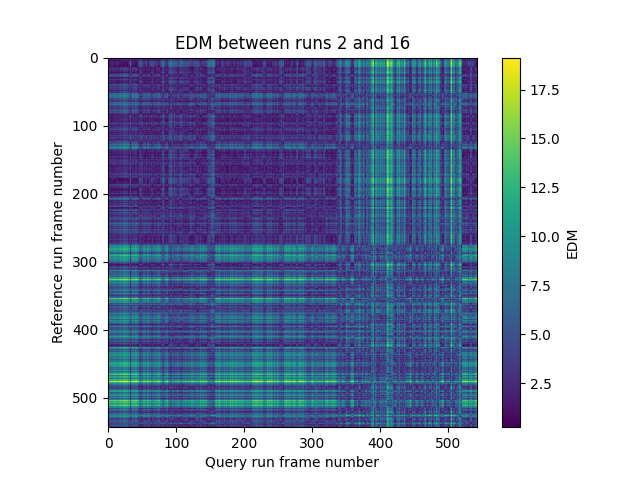
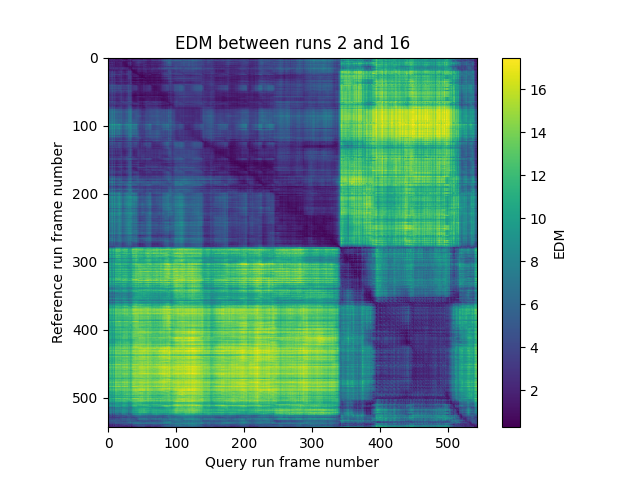
Still need to fix dbscan

diff --git a/visual_place_recognition/clustering/get_cluster.py b/visual_place_recognition/clustering/get_cluster.py
@@ -17,6 +17,7 @@ import pandas as pd
 import matplotlib.pyplot as plt
 import path_processing
 from scipy.stats import wasserstein_distance
+from scipy.stats import entropy
 import sys
 sys.path.append("/home/lamlam/code/visual_place_recognition")
 import evaluation_tool
@@ -47,17 +48,20 @@ if __name__ == '__main__':
     #images_path = images_path + images_path_dark
     for frame_path in images_path:
         #List of descriptors of size {996}
-        descriptors = learned_feature_detector.run(path_processing.pre_process_image(frame_path),config["score_threshold_to_be_chosen"])
+        descriptors = learned_feature_detector.run_window_normalize(path_processing.pre_process_image(frame_path),config["score_threshold_to_be_chosen"])
         descriptors_list = descriptors_list + descriptors #list of list
 
     #Do clustering -> list_descriptors is a list of around 100 tensors of size {992}
-    list_descriptors = clustering.cluster_dbscan(descriptors_list, config)
-
-    print("K-means")
-    nparray_kmeans = clustering.cluster_kmeans(descriptors_list,config)
-    
-    #Convert this to list of tensors to tensors
-    list_descriptors = torch.stack(list_descriptors)
+    if(config["clustering_method"] == "dbscan"):
+        print("Using dbscan")
+        list_descriptors = clustering.cluster_dbscan(descriptors_list, config)
+        #Convert this to list of tensors to tensors
+        list_descriptors = torch.stack(list_descriptors)
+    else:
+        nparray_kmeans = clustering.cluster_kmeans(descriptors_list,config)
+        print("Finished creating k means clusters")
+        #Convert numpy array to tensors
+        list_descriptors = torch.tensor(nparray_kmeans)
 
     print("Finish finding clusters from validation run")
     
@@ -74,49 +78,26 @@ if __name__ == '__main__':
     #Must be done in order -> otherwise the appending will be messed up. Can initialize the ref_count first if don't want to do in order
     for i in range (len(reference_path)):
         #List of tensors
-        descriptors = learned_feature_detector.run(path_processing.pre_process_image(reference_path[i]),config["score_threshold_to_be_chosen"])
-        descriptors = torch.tensor(descriptors)  #size {664,992}
+        descriptors = learned_feature_detector.run_window_normalize(path_processing.pre_process_image(reference_path[i]),config["score_threshold_to_be_chosen"])
+        descriptors = torch.tensor(descriptors)  #size {768,992}
 
         count = np.zeros(len(list_descriptors),dtype=int)
-        max_sim = 0
-        label = 0
         #Organize the chosen descriptors into the clusters found above
         for idx,value in enumerate(descriptors):
-            #1d np array of size around 100 and the values are the counts
-            """
-            for center_label, center in enumerate(list_descriptors):
-                #Find cosine similarity between the descriptor and each of the cluster's center
-                similarity = 1.0-cdist(value.unsqueeze(0), center.unsqueeze(0), metric = "cosine")
-                if(similarity > max_sim):
-                    max_sim = similarity
-                    label = center_label
-            """
             similarities = 1.0 - cdist(value[None, :], list_descriptors, metric="cosine")
             label = np.argmax(similarities)
             count[label] +=1
         ref_count.append(count)
-    print(ref_count)
 
     print("Start doing inference on query run")
     for frame_index,frame_path in enumerate(query_path):
         #List of tensors
-        descriptors = learned_feature_detector.run(path_processing.pre_process_image(frame_path),config["score_threshold_to_be_chosen"])
+        descriptors = learned_feature_detector.run_window_normalize(path_processing.pre_process_image(frame_path),config["score_threshold_to_be_chosen"])
         descriptors = torch.tensor(descriptors)  #size {664,992}
 
         count = np.zeros(len(list_descriptors),dtype=int)
-        max_sim = 0
-        label = 0
         #Organize the chosen descriptors into the clusters found above
         for idx,value in enumerate(descriptors):
-            #1d np array of size around 100 and the values are the counts
-            """
-            for center_label, center in enumerate(list_descriptors):
-                #Find cosine similarity between the descriptor and each of the cluster's center
-                similarity = 1.0-cdist(value.unsqueeze(0), center.unsqueeze(0), metric = "cosine")
-                if(similarity > max_sim):
-                    max_sim = similarity
-                    label = center_label
-            """
             similarities = 1.0 - cdist(value[None, :], list_descriptors, metric="cosine")
             label = np.argmax(similarities)
             count[label] +=1
@@ -126,7 +107,15 @@ if __name__ == '__main__':
         min_distance = 1000
         min_index = 0
         for index,value in enumerate(ref_count):
-            distance = wasserstein_distance(count,value)
+            if(config["histogram_comparison_method"] == "EMD"):
+                #Normalize as well for completeness
+                distance = wasserstein_distance(count/np.sum(count),value/np.sum(count))
+            else:
+                #Normalize histograms and do cross entropy. Cross entropy doesn't work if there are elements with zero probability.
+                #So add a small epsilon value
+                epsilon = 1e-8  # Small epsilon value
+                distance = entropy((count+epsilon)/np.sum(count),(value+epsilon)/np.sum(count))
+            
             similarity_run[index,frame_index] = distance
             if(distance < min_distance):
                 min_distance = distance
@@ -135,7 +124,7 @@ if __name__ == '__main__':
         
     print("Start evaluation")
     gps_distance, ref_gps, query_gps = evaluation_tool.gps_ground_truth(reference_run,query_run,ref_length,query_length, incre_ref, incre_query)
-    evaluation_tool.plot_similarity_wasserstein(similarity_run, reference_run, query_run)
+    evaluation_tool.plot_similarity_clustering(similarity_run, reference_run, query_run,config["histogram_comparison_method"])
     
     threshold_list = config["success_threshold_in_m"]
     success_rate, average_error = evaluation_tool.calculate_success_rate_list(max_similarity_run_index,ref_gps,query_gps,threshold_list)

diff --git a/visual_place_recognition/clustering/clustering.py b/visual_place_recognition/clustering/clustering.py
@@ -5,6 +5,9 @@ from sklearn.cluster import KMeans
 import torch
 import torch.nn as nn
 import torch.nn.functional as F
+from sklearn.preprocessing import StandardScaler
+import matplotlib.pyplot as plt
+
 
 def cluster(descriptors):
     #Convert from {1,496,n} to {n,496}
@@ -49,7 +52,7 @@ def cluster_dbscan(descriptor_list, config):
     db = DBSCAN(eps=config["dbscan_eps"], min_samples=config["dbscan_min_samples"]).fit(descriptor_list)
     labels = db.labels_
     n_clusters_ = len(set(labels)) - (1 if -1 in labels else 0)
-    #print("Estimated number of clusters: %d" % n_clusters_)    
+    print("Estimated number of clusters: %d" % n_clusters_)    
 
     unique_labels = set(labels) - {-1}
     representative_elements = []
@@ -58,15 +61,16 @@ def cluster_dbscan(descriptor_list, config):
         descriptor_label = [value for idx, value in enumerate(descriptor_list) if labels[idx] == label]
         descriptor_label = torch.tensor(descriptor_label)
         #Tensors of size {n,992}
+        print(descriptor_label.size())
 
         #Set some kind of threshold to eliminate the clusters with lots of elements 
         if(descriptor_label.size()[0] < config["threshold_to_eliminate_clusters"]):
             #Average
             average_descriptor = torch.mean(descriptor_label,0)
-
+            print(average_descriptor.size())
             #Do L2 normalization
-            normalized_descriptor = F.normalize(average_descriptor.squeeze(), p=2, dim=0)
-            representative_elements.append(normalized_descriptor)
+            #normalized_descriptor = F.normalize(average_descriptor.squeeze(), p=2, dim=0)
+            representative_elements.append(average_descriptor)
     
     #print("Number of clusters chosen: " + str(len(representative_elements)))
     #List of tensors
@@ -74,13 +78,31 @@ def cluster_dbscan(descriptor_list, config):
 
 def cluster_kmeans(descriptor_list, config):
     Kmean = KMeans(n_clusters=config["kmeans_num_clusters"]).fit(descriptor_list)
-    labels = Kmean.labels_
     #Labels has shape (24,000,). Representative_elements has shape (n,992)
     representative_elements = Kmean.cluster_centers_
+    
     return representative_elements
+
+    #Choosing the optimal number of k clusters
+    """
+    sse = []
+    for k in range(5,45,5):
+        kmeans = KMeans(n_clusters=k).fit(descriptor_list)
+        sse.append(kmeans.inertia_)
+
+    x_values = list(range(5,45,5))
+    #visualize results#
+    plt.figure()
+    plt.title("Finding optimal number of k clusters")
+    plt.plot(x_values,sse)
+    plt.xlabel("Number of Clusters")
+    plt.ylabel("SSE")
+    plt.savefig("/home/lamlam/code/visual_place_recognition/clustering/plot_visualize_cluster/k_clustering_detailed.png")
+    """
 
     """
     # Count the number of elements in each cluster
+    labels = Kmean.labels_
     cluster_counts = np.bincount(labels)
     for cluster, count in enumerate(cluster_counts):
         print(f"Cluster {cluster}: {count} elements")

diff --git a/visual_place_recognition/clustering/unet_extraction_cluster.py b/visual_place_recognition/clustering/unet_extraction_cluster.py
@@ -14,6 +14,13 @@ from src.model.keypoint_block import KeypointBlock
 from src.utils.keypoint_tools import normalize_coords, get_norm_descriptors, get_scores
 from src.dataset import Dataset
 
+def get_keypoint_info(kpt_2D, scores_map, descriptors_map):
+    batch_size, _, height, width = scores_map.size()
+    kpt_2D_norm = normalize_coords(kpt_2D, batch_size, height, width).unsqueeze(1)  # Bx1xNx2
+    kpt_desc_norm = get_norm_descriptors(descriptors_map, True, kpt_2D_norm)
+    kpt_scores = get_scores(scores_map, kpt_2D_norm)
+    return kpt_desc_norm, kpt_scores
+
 class LearnedFeatureDetector(nn.Module):
     """ 
         Class to detect learned features.
@@ -84,11 +91,26 @@ class LearnedFeatureDetector(nn.Module):
         #Eliminate descriptors with scores less than a threshold
         descriptors_eliminated = descriptors.view(descriptors.size(1),-1)
         scores = scores.view(scores.size(2)*scores.size(3))
-        chosen_descriptors = descriptors_eliminated[:, scores > score_threshold].detach().cpu().t()
-        print(chosen_descriptors.size())
+        #chosen_descriptors = descriptors_eliminated[:, scores > score_threshold].detach().cpu().t()
+        chosen_descriptors = descriptors_eliminated[:, scores > score_threshold].t()
+        
+        #of size {n,992}
+        normalized_descriptor = F.normalize(chosen_descriptors, p=1, dim=1)
+        return normalized_descriptor.tolist()
+    
+    def run_window_normalize(self,image_tensor,score_threshold):
+        if self.cuda:
+            image_tensor = image_tensor.cuda()
+        detector_scores, scores, descriptors = self.net(image_tensor)
+        keypoints = self.keypoint_block(detector_scores)
+        #Involves normalizing across RGB. Descriptors_norm size {1,992,768}
+        descriptors_norm, point_scores = get_keypoint_info(keypoints, scores, descriptors)
+        normalized_descriptor = F.normalize(descriptors_norm.squeeze(), p=2, dim=0).t()
+        #size {992,768} -> {768,992} after transposing
+        return normalized_descriptor.tolist()
 
-        normalized_descriptor = F.normalize(chosen_descriptors, p=1, dim=0)
-        print(normalized_descriptor.size())
+
+       
         
     
     

diff --git a/visual_place_recognition/evaluation_tool.py b/visual_place_recognition/evaluation_tool.py
@@ -85,15 +85,15 @@ def plot_similarity(similarity_run, reference_run, query_run, sampling_method):
     plot_name = "Descriptor map for runs " + str(reference_run)+ " and " + str(query_run) + " - " + sampling_method + ".png"
     plt.savefig("/home/lamlam/code/visual_place_recognition/plots" + plot_name)
 
-def plot_similarity_wasserstein(similarity_run, reference_run, query_run):
+def plot_similarity_clustering(similarity_run, reference_run, query_run, method):
     plt.figure()
-    plt.title("EDM between runs " + str(reference_run) + " and " + str(query_run))
+    plt.title("Similarity between runs " + str(reference_run) + " and " + str(query_run))
     similarity_plot = plt.imshow(similarity_run, cmap='viridis', interpolation='nearest')
     colorbar = plt.colorbar(similarity_plot)
-    colorbar.set_label("EDM")
+    colorbar.set_label(method)
     plt.xlabel("Query run frame number")
     plt.ylabel("Reference run frame number")
-    plot_name = "Threshold_EDM map for runs " + str(reference_run)+ " and " + str(query_run) + ".png"
+    plot_name = "Similarity clustering map for runs " + str(reference_run)+ " and " + str(query_run) + ".png"
     plt.savefig("/home/lamlam/code/visual_place_recognition/plots/" + plot_name)
 
 def calculate_success_rate(max_similarity_idx, ref_gps, query_gps, threshold):

diff --git a/visual_place_recognition/unet_extraction.py b/visual_place_recognition/unet_extraction.py
@@ -178,7 +178,7 @@ class LearnedFeatureDetector(nn.Module):
         keypoints = self.keypoint_block(detector_scores)
         descriptors_norm, point_scores = get_keypoint_info(keypoints, scores, descriptors)
         
-        clustering.cluster(descriptors_norm)
+        #clustering.cluster(descriptors_norm)
         #Plot point scores
         plt.figure()
         plt.title("Scores Histogram (768)")

diff --git a/visual_place_recognition/UnitTest.py b/visual_place_recognition/UnitTest.py
@@ -31,3 +31,4 @@ query_gps = np.array([[43.782160,-79.465760,147.52],[43.781800,-79.464763,153.99
 a = [1,2,3,4,5]
 b = [0,0,0,0,0]
 print(wasserstein_distance(a,b))
+
